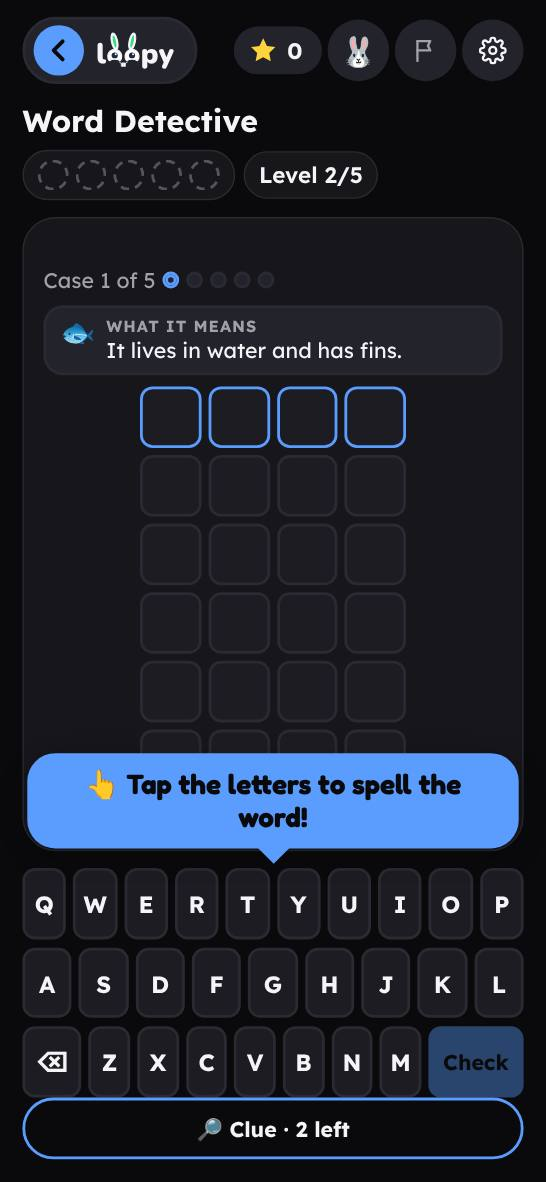
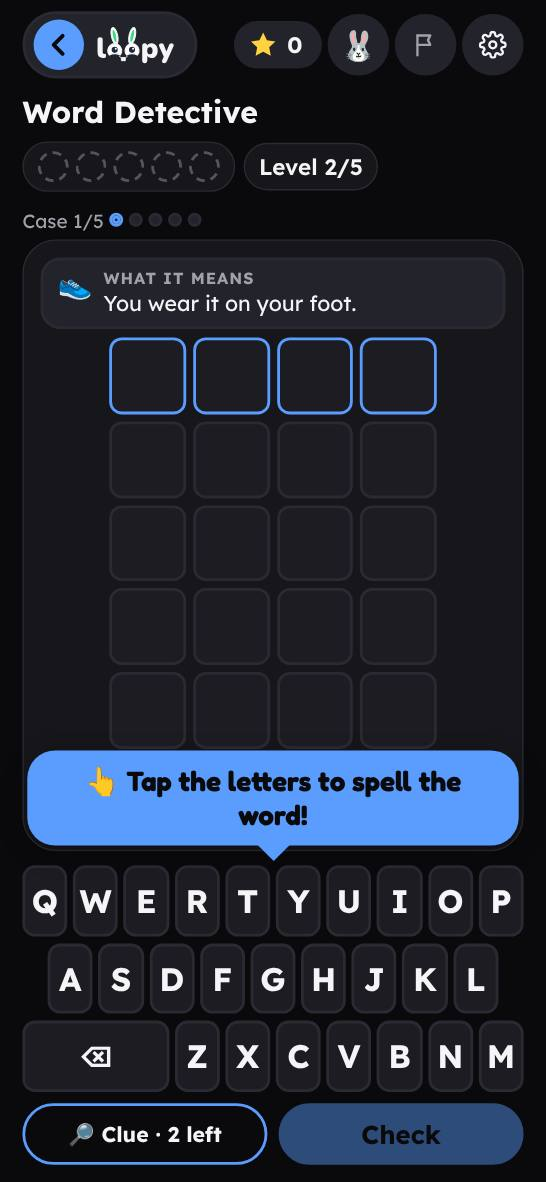
Big, equal keys on the letter keyboard in Word Detective and My Words
Every key is the same width: the keyboard splits its width by the longest row (10 keys in English, 11 in German), with 4px gaps. The letters grow with the keys, and ß is drawn a step bigger on its key and in the grid. Erase fills what the bottom row has left. In Word Detective the Check button sits beside Clue under the keyboard. On a phone or tablet on its side the case strip no longer overlaps the keyboard. Guide pictures, READMEs, DESIGN.md, What's new and RELEASES.md updated.

Closes #300

diff --git a/languages/word-detective/index.html b/languages/word-detective/index.html
@@ -2,7 +2,7 @@
 <html lang="en">
 <head>
 <meta charset="utf-8">
-<meta http-equiv="Content-Security-Policy" content="default-src 'self'; script-src 'self' 'sha256-ecpSx+02ibrNtK/c2zuixc14TUsTG+gCkBAhJxmG1kw='; style-src 'self' 'sha256-iKqZfY0yOsyVHa/qlTmRsjSUAon+EdDi9RLwucVWFNA=' 'sha256-tnJsa9R6C51kJMjmOPnAuWQXZQNnMHFisS5uil93cWg=' 'sha256-RT1053JU5UiKvjrCUFx1rlhdFLMmgtuFJ9T8jnMeawQ=' 'sha256-Rp8Iy7nAMEHVdMcdDohIRSjS8yNxAxCXzSrw2gh7/Vo='; img-src 'self' data:; font-src 'self'; connect-src 'self' https://loopy-sync.loopy-1e2.workers.dev; worker-src 'self'; object-src 'none'; base-uri 'none'; form-action 'none'; manifest-src 'self'; upgrade-insecure-requests">
+<meta http-equiv="Content-Security-Policy" content="default-src 'self'; script-src 'self' 'sha256-8C5mMo091dna48dkW3dfSlfeZkzU3jZSt8B+sFitkSs='; style-src 'self' 'sha256-iKqZfY0yOsyVHa/qlTmRsjSUAon+EdDi9RLwucVWFNA=' 'sha256-tnJsa9R6C51kJMjmOPnAuWQXZQNnMHFisS5uil93cWg=' 'sha256-RT1053JU5UiKvjrCUFx1rlhdFLMmgtuFJ9T8jnMeawQ=' 'sha256-groA4+QlUiGKy5SxnZ+kPCvtamF35StzhAuIgHHewfI='; img-src 'self' data:; font-src 'self'; connect-src 'self' https://loopy-sync.loopy-1e2.workers.dev; worker-src 'self'; object-src 'none'; base-uri 'none'; form-action 'none'; manifest-src 'self'; upgrade-insecure-requests">
 <meta name="referrer" content="strict-origin-when-cross-origin">
 <meta name="viewport" content="width=device-width, initial-scale=1, viewport-fit=cover">
 <style>:root{color-scheme:light;padding-top:var(--safe-top);padding-bottom:var(--safe-bottom)}body{margin:0}[hidden]{display:none!important}</style>
@@ -144,12 +144,15 @@ body { min-height: 100vh; min-height: 100dvh; padding-block: var(--page-pad-top)
 .case i.ok { background: var(--good); border-color: var(--good); }
 .case i.no { background: var(--bad); border-color: var(--bad); }
 .case i.now { border-color: var(--accent); box-shadow: 0 0 0 2px var(--accent) inset; }
-/* One Clue button, a full-width outline pill under the keyboard, where Next appears after the answer (the same place as in Word Trail). */
-.more {
+/* Under the keyboard: the Clue button (outline pill) and Check (filled pill) share one row, half the width each.
+   Next appears in the same place after the answer (as in Word Trail). */
+.acts { display: grid; grid-template-columns: 1fr 1fr; gap: 8px; width: 100%; }
+.more, .acts .go {
   width: 100%; font: inherit; font-weight: 700; font-size: 0.95rem; color: var(--ink); background: transparent;
   border: 2px solid var(--accent); border-radius: 999px; min-height: 44px; padding: 0 12px; cursor: pointer; white-space: nowrap;
 }
-.more:disabled { opacity: 0.45; cursor: default; }
+.acts .go { font-size: 1.15rem; background: var(--accent); color: var(--accent-ink); }
+.more:disabled, .acts .go:disabled { opacity: 0.45; cursor: default; }
 .strip .case { min-width: 0; }
 /* Phones: a short counter ("Case 1/5" and smaller dots) and the line share one row. */
 @media (max-width: 599px) { .case { font-size: 0.85rem; gap: 4px; } .case i { width: 10px; height: 10px; } .prompt { font-size: 0.85rem; } .strip { gap: 2px 6px; } }
@@ -211,11 +214,15 @@ body:has(#settings-panel:not([hidden])) .grid { height: 52dvh; }
 .stars { display: flex; align-items: center; justify-content: center; gap: 6px; font-weight: 700; font-size: 1.15rem; }
 .stars svg { width: 24px; height: 24px; fill: var(--mark); }
 
-.pad { display: flex; flex-direction: column; gap: 6px; width: 100%; }
-.pad .krow { display: flex; gap: 5px; justify-content: center; }
+/* Every key is the same size: the keyboard measures itself (container units) and splits its width by the longest row,
+   10 keys in English and 11 in German (--n from the keyboard's lang). Shorter rows are centred. The letter grows with the key. */
+.pad { display: flex; flex-direction: column; gap: 5px; width: 100%; container-type: inline-size; --n: 10; --kgap: 4px; }
+.pad[lang="de"] { --n: 11; }
+.pad .krow { display: flex; gap: var(--kgap); justify-content: center; }
 .pad button {
-  flex: 1 1 0; min-width: 0; min-height: clamp(36px, 6dvh, 54px); border-radius: 9px; border: 2px solid var(--line);
-  background: var(--key); color: var(--ink); font: inherit; font-weight: 700; font-size: 1.05rem; text-transform: uppercase; padding: 0; cursor: pointer;
+  --kw: calc((100cqw - (var(--n) - 1) * var(--kgap)) / var(--n));
+  flex: 0 0 var(--kw); min-width: 0; min-height: clamp(44px, 6dvh, 56px); border-radius: 9px; border: 2px solid var(--line);
+  background: var(--key); color: var(--ink); font: inherit; font-weight: 700; font-size: clamp(1.1rem, calc(var(--kw) * 0.72), 1.6rem); text-transform: uppercase; padding: 0; cursor: pointer;
   touch-action: manipulation; -webkit-tap-highlight-color: transparent;
 }
 .pad button:active:not(:disabled) { transform: scale(0.95); }
@@ -223,23 +230,22 @@ body:has(#settings-panel:not([hidden])) .grid { height: 52dvh; }
 .pad button.g { background: var(--good); border-color: var(--good); color: var(--on-accent, #fff); }
 .pad button.y { background: var(--wd-y); border-color: var(--wd-y); color: var(--wd-y-ink); }
 .pad button.x { background: var(--chip); border-color: var(--chip); color: var(--muted); }
-.pad .wide { flex: 1.5 1 0; font-size: 1.25rem; text-transform: none; }
-/* ß has no everyday capital, so it stays ß on its key and in the grid. */
+/* Erase takes whatever the bottom row has left (two keys wide in German, three in English), so the row ends flush with the rows above. */
+.pad .wide { flex: 1 1 var(--kw); font-size: 1.25rem; text-transform: none; }
+/* ß has no everyday capital, so it stays ß on its key and in the grid, drawn a step bigger to match the capitals. */
 .pad button.sz, .grid .cell.sz { text-transform: none; }
-.pad .go { flex: 2.5 1 0; font-size: 0.95rem; background: var(--accent); border-color: var(--accent); color: var(--accent-ink); }
-/* Small phones: the German last row has 9 letters (with ß), so Check gets a smaller word. */
-@media (max-width: 379px) { .pad .go { font-size: 0.85rem; } }
+.pad button.sz { font-size: clamp(1.25rem, calc(var(--kw) * 0.82), 1.8rem); }
+.grid .cell.sz { font-size: calc(var(--cell) * 0.64); }
 .next { font: inherit; font-size: 1.25rem; font-weight: 700; color: var(--accent-ink); background: var(--accent); border: 0; border-radius: 16px; min-height: clamp(52px, 7dvh, 72px); cursor: pointer; width: 100%; }
 
 /* Short phones: smaller cells and keys, a one-line clue. */
 @media (max-height: 700px) and (orientation: portrait) {
   .grid { --ggap: 4px; }
-  .more { min-height: 40px; }
+  .more, .acts .go { min-height: 40px; }
   .clue { font-size: 0.85rem; padding: 4px 8px; }
   .clue b { display: none; }
-  .pad button { min-height: 40px; font-size: 0.95rem; }
+  .pad button { min-height: 40px; }
   .pad { gap: 4px; }
-  .pad .krow { gap: 4px; }
   .word { font-size: 1.6rem; }
   .mean, .quote { font-size: 0.9rem; }
   .problem-card { gap: 6px; padding: 10px 12px; }
@@ -248,12 +254,14 @@ body:has(#settings-panel:not([hidden])) .grid { height: 52dvh; }
 @media (orientation: landscape) and (min-width: 640px) {
   .grid { --ggap: 4px; }
   .pad button { min-height: clamp(34px, 9dvh, 54px); }
+  /* The strip sits in the side column here, so it keeps the column's own gap (its negative margin is for the portrait page). */
+  .side .strip { margin-bottom: 0; }
 }
-@media (min-width: 700px) { .more { min-height: 54px; font-size: 1.1rem; } }
+@media (min-width: 700px) { .more { min-height: 54px; font-size: 1.1rem; } .acts .go { min-height: 54px; font-size: 1.3rem; } }
 /* A phone on its side: the side column holds the case strip, the clues and the keys, so everything there is a step tighter. */
 @media (orientation: landscape) and (min-width: 640px) and (max-height: 500px) {
   .side { gap: 6px; }
-  .more { min-height: 44px; }
+  .more, .acts .go { min-height: 44px; }
   .clue { font-size: 0.85rem; padding: 4px 8px; }
   .clue b { display: none; }
 }
@@ -262,7 +270,7 @@ body:has(#settings-panel:not([hidden])) .grid { height: 52dvh; }
 @media (orientation: landscape) and (min-width: 1000px) { .grid { --ggap: 8px; } }
 @media (orientation: landscape) and (min-width: 1600px) { .grid { --ggap: 10px; } }
 /* Laptops and monitors: the game's own picture and keys grow with the screen (loopy.css --card-zoom, --side-zoom; 1 elsewhere). */
-.pad { zoom: var(--side-zoom); }
+.pad, .acts { zoom: var(--side-zoom); }
 </style>
 <link rel="stylesheet" href="../../loopy.css">
 <script src="../../loopy.js"></script>
@@ -326,7 +334,10 @@ body:has(#settings-panel:not([hidden])) .grid { height: 52dvh; }
     </div>
     <div class="side">
       <div class="pad" id="letters"></div>
-      <button type="button" class="more" id="more"></button>
+      <div class="acts" id="acts">
+        <button type="button" class="more" id="more"></button>
+        <button type="button" class="go" id="k-go"></button>
+      </div>
       <button type="button" class="next" id="next" hidden></button>
     </div>
   </main>
@@ -402,7 +413,7 @@ function marks(guess, answer) {
 
 (function () {
   const $ = (id) => document.getElementById(id);
-  const card = $("card"), caseEl = $("case"), moreBtn = $("more"), cluesEl = $("clues"), promptEl = $("prompt"), gridEl = $("grid"),
+  const card = $("card"), caseEl = $("case"), moreBtn = $("more"), actsEl = $("acts"), goBtn = $("k-go"), cluesEl = $("clues"), promptEl = $("prompt"), gridEl = $("grid"),
     resultEl = $("result"), feedbackEl = $("feedback"), padEl = $("letters"), nextBtn = $("next"), sideEl = document.querySelector(".side"),
     stripEl = $("strip"), playEl = document.querySelector(".play");
   const wordsBtns = [...document.querySelectorAll("#words-seg button")];
@@ -470,7 +481,7 @@ function marks(guess, answer) {
     const left = CLUES - clues;
     moreBtn.textContent = t("wdMore") + " · " + (left ? t("wdLeft", { n: left }) : t("wdNoClues"));
     moreBtn.disabled = !left || answered;
-    moreBtn.hidden = answered;
+    actsEl.hidden = answered;
     promptEl.textContent = clues ? t("wdGuessClue") : t("wdGuess", { n: current.letters.length });
     promptEl.hidden = answered || clues > 0;
   }
@@ -513,6 +524,7 @@ function marks(guess, answer) {
     const best = {};
     rows.forEach(r => r.g.forEach((c, i) => { const m = r.m[i]; if (m === "g" || (m === "y" && best[c] !== "g") || !best[c]) best[c] = m; }));
     padEl.textContent = "";
+    padEl.lang = wordsLang;
     KEYS[wordsLang].forEach((line, li) => {
       const row = document.createElement("div"); row.className = "krow";
       if (li === KEYS[wordsLang].length - 1) row.appendChild(key("k-erase", "wide", "⌫", t("wdEraseAria"), erase));
@@ -522,9 +534,10 @@ function marks(guess, answer) {
         b.disabled = answered || typed.length >= current.letters.length;
         row.appendChild(b);
       });
-      if (li === KEYS[wordsLang].length - 1) { const go = key("k-go", "wide go", t("wdCheck"), "", check); go.disabled = answered || typed.length < current.letters.length; row.appendChild(go); }
       padEl.appendChild(row);
     });
+    goBtn.textContent = t("wdCheck");
+    goBtn.disabled = answered || typed.length < current.letters.length;
   }
   function key(id, cls, text, aria, fn) {
     const b = document.createElement("button");
@@ -638,7 +651,7 @@ function marks(guess, answer) {
     const solved = file.filter(c => c.ok).length, quick = file.every(c => c.ok && c.tries <= 3);
     const rank = quick ? "wdSuper" : solved === CASES ? "wdDetective" : "wdRookie";
     resultEl.textContent = "";
-    gridEl.hidden = true; cluesEl.hidden = true; promptEl.hidden = true; moreBtn.disabled = true; moreBtn.hidden = true;
+    gridEl.hidden = true; cluesEl.hidden = true; promptEl.hidden = true; moreBtn.disabled = true; actsEl.hidden = true;
     card.classList.remove("good", "bad");
     resultEl.appendChild(el("h2", "big", t("wdFileDone")));
     const list = el("div", "file");
@@ -667,6 +680,7 @@ function marks(guess, answer) {
 
   nextBtn.addEventListener("click", next);
   wide.addEventListener("change", place);
+  goBtn.addEventListener("click", check);
   moreBtn.addEventListener("click", () => { if (clues < CLUES && !answered) { clues++; drawClues(); Loopy.speech.read(); } });
   wordsBtns.forEach(b => b.addEventListener("click", () => { wordsLang = b.dataset.words; store.set("wd.words", wordsLang); store.set("wd.wordsUi", uiLang); recent = []; file = []; summary = false; newCase(); }));
   levelBtns.forEach(b => b.addEventListener("click", () => { level = +b.dataset.level; store.set("wd.level.a" + age, level); recent = []; newCase(); }));

diff --git a/sw.js b/sw.js
@@ -1,5 +1,5 @@
 /* loopy: built from src/sw.js by tools/build.py. Do not edit this file, edit the source. */
-var VERSION="5e12aa7f8528ee54",FILES={"apple-touch-icon.png":"826eeeca90","fonts/atkinson-latin.woff2":"71c3e56f88","fonts/fredoka-latin-ext.woff2":"18a1723c87","fonts/fredoka-latin.woff2":"3facd28352","fonts/lexend-latin-ext.woff2":"b5d815d420","fonts/lexend-latin.woff2":"35a62e43ae","geography/flags-capitals/data.js":"c24974cb8d","geography/flags-capitals/":"d75c572ce5","geography/where-is-it/data.js":"c8e0bf4f86","geography/where-is-it/":"dc92bee3a7","help/":"12fe6a6908","icon-192.png":"571274d70c","icon-512.png":"dfd4ed3adf","icon-maskable-512.png":"981dcb84db","icon.svg":"3d1a9ed7fd","./":"9f6e7f2174","languages/my-words/":"6bccba4ba1","languages/read-answer/data.js":"54993a2b66","languages/read-answer/":"5f53a2fbd2","languages/sentence-builder/":"a7d184337a","languages/sentence-builder/words.js":"15d02d630a","languages/sound-spell/":"e6a7b77794","languages/sound-spell/words.js":"100ac92ec5","languages/spell-it/":"7907b88b66","languages/spell-it/words.js":"72e87eaa4f","languages/spelling-quiz/":"34480a6c1b","languages/spelling-quiz/words.js":"9c90832137","languages/word-detective/":"6f07786784","languages/word-detective/words.js":"62c5968b01","languages/word-forms/":"d83d7b5252","languages/word-forms/words.js":"4fcfd229c7","languages/word-match/":"b9dc75e5d2","languages/word-trail/":"e4b6674cfc","languages/words.js":"ad5f903a46","logo-white.svg":"f6a28d2294","logo.svg":"33f3453587","loopy-backup.js":"f24fd829d5","loopy-install.js":"3c3d79f3e7","loopy-levels.js":"4e0e76430c","loopy-report.js":"c374c981fa","loopy-sheet.js":"2979ac6382","loopy-sync.js":"0866d61ab8","loopy.css":"7e9939a745","loopy.js":"4d3dde893f","manifest.webmanifest":"32d1e2daa8","math/bigger-or-smaller/":"08faae00ac","math/box-multiply/":"464fd701bc","math/calendar-dates/":"9c7113e608","math/coins-change/":"a09555cc30","math/enough-money/":"e25805c003","math/equation-balance/":"29bd7c5cb8","math/graphs-data/":"c4ee5d53f4","math/make-10/":"65351be9c2","math/measure-it/":"78394d756c","math/number-patterns/":"7534bfa6a4","math/percent-ratio/":"c2476ea156","math/pizza-fractions/":"b37515b175","math/plus-minus/":"15bbb8348c","math/plus-minus-100/":"9df776dbe5","math/shapes-angles/":"18dfdacb9f","math/step-by-step/":"037aea58f6","math/tens-ones/":"bd3615a6c6","math/times-grid/":"0da62f8e5e","math/times-share/":"7c15151094","math/times-sprint/":"f8360fbe43","math/what-time-is-it/":"3438479e3a","math/which-way/":"53974eb448","mix/class-test/":"7db1f631bf","mix/daily-mix/":"a6215b3737","print.css":"619925ee48","privacy/":"25d6245161","progress/":"488a6bc380","science/quick-facts/data.js":"8196c98b79","science/quick-facts/":"a7aafd793b","science/sort-it/data.js":"9abc4f3e8a","science/sort-it/":"418f3d37db"};
+var VERSION="fe425150111bac6f",FILES={"apple-touch-icon.png":"826eeeca90","fonts/atkinson-latin.woff2":"71c3e56f88","fonts/fredoka-latin-ext.woff2":"18a1723c87","fonts/fredoka-latin.woff2":"3facd28352","fonts/lexend-latin-ext.woff2":"b5d815d420","fonts/lexend-latin.woff2":"35a62e43ae","geography/flags-capitals/data.js":"c24974cb8d","geography/flags-capitals/":"d75c572ce5","geography/where-is-it/data.js":"c8e0bf4f86","geography/where-is-it/":"dc92bee3a7","help/":"12fe6a6908","icon-192.png":"571274d70c","icon-512.png":"dfd4ed3adf","icon-maskable-512.png":"981dcb84db","icon.svg":"3d1a9ed7fd","./":"9f6e7f2174","languages/my-words/":"869377a27a","languages/read-answer/data.js":"54993a2b66","languages/read-answer/":"5f53a2fbd2","languages/sentence-builder/":"a7d184337a","languages/sentence-builder/words.js":"15d02d630a","languages/sound-spell/":"e6a7b77794","languages/sound-spell/words.js":"100ac92ec5","languages/spell-it/":"7907b88b66","languages/spell-it/words.js":"72e87eaa4f","languages/spelling-quiz/":"34480a6c1b","languages/spelling-quiz/words.js":"9c90832137","languages/word-detective/":"e2404b8700","languages/word-detective/words.js":"62c5968b01","languages/word-forms/":"d83d7b5252","languages/word-forms/words.js":"4fcfd229c7","languages/word-match/":"b9dc75e5d2","languages/word-trail/":"e4b6674cfc","languages/words.js":"ad5f903a46","logo-white.svg":"f6a28d2294","logo.svg":"33f3453587","loopy-backup.js":"f24fd829d5","loopy-install.js":"3c3d79f3e7","loopy-levels.js":"4e0e76430c","loopy-report.js":"c374c981fa","loopy-sheet.js":"2979ac6382","loopy-sync.js":"0866d61ab8","loopy.css":"7e9939a745","loopy.js":"4d3dde893f","manifest.webmanifest":"32d1e2daa8","math/bigger-or-smaller/":"08faae00ac","math/box-multiply/":"464fd701bc","math/calendar-dates/":"9c7113e608","math/coins-change/":"a09555cc30","math/enough-money/":"e25805c003","math/equation-balance/":"29bd7c5cb8","math/graphs-data/":"c4ee5d53f4","math/make-10/":"65351be9c2","math/measure-it/":"78394d756c","math/number-patterns/":"7534bfa6a4","math/percent-ratio/":"c2476ea156","math/pizza-fractions/":"b37515b175","math/plus-minus/":"15bbb8348c","math/plus-minus-100/":"9df776dbe5","math/shapes-angles/":"18dfdacb9f","math/step-by-step/":"037aea58f6","math/tens-ones/":"bd3615a6c6","math/times-grid/":"0da62f8e5e","math/times-share/":"7c15151094","math/times-sprint/":"f8360fbe43","math/what-time-is-it/":"3438479e3a","math/which-way/":"53974eb448","mix/class-test/":"7db1f631bf","mix/daily-mix/":"a6215b3737","print.css":"619925ee48","privacy/":"25d6245161","progress/":"488a6bc380","science/quick-facts/data.js":"8196c98b79","science/quick-facts/":"a7aafd793b","science/sort-it/data.js":"9abc4f3e8a","science/sort-it/":"418f3d37db"};
 var CACHE="loopy-"+VERSION;var LIST=new URL("loopy-files",self.location).href;var SAVED={};Object.keys(FILES).forEach(function(f){SAVED[new URL(f,self.location).href]=FILES[f];});function key(url){var u=new URL(url);u.search="";u.hash="";u.pathname=u.pathname.replace(/\/index\.html$/,"/").replace(/\/([^\/.]+)$/,"/$1/");return u.href;}
 function oldCopy(){return caches.keys().then(function(names){return Promise.all(names.filter(function(n){return n.indexOf("loopy-")===0&&n!==CACHE;}).map(function(n){return caches.open(n).then(function(cache){return cache.match(LIST).then(function(r){return r?r.json():null;}).then(function(list){if(!list||typeof list!=="object")return null;var same=Object.keys(SAVED).filter(function(url){return list[url]===SAVED[url];}).length;return{cache:cache,list:list,same:same};});}).catch(function(){return null;});}));}).then(function(copies){return copies.reduce(function(best,c){return c&&(!best||c.same>best.same)?c:best;},null);}).catch(function(){return null;});}
 function matches(res,want){if(!res||!self.crypto||!crypto.subtle)return Promise.resolve(!!res);return res.clone().arrayBuffer().then(function(buf){return crypto.subtle.digest("SHA-256",buf);}).then(function(d){return Array.prototype.map.call(new Uint8Array(d),function(b){return(b<16?"0":"")+b.toString(16);}).join("").slice(0,10)===want;},function(){return true;});}

diff --git a/languages/my-words/index.html b/languages/my-words/index.html
@@ -2,7 +2,7 @@
 <html lang="en">
 <head>
 <meta charset="utf-8">
-<meta http-equiv="Content-Security-Policy" content="default-src 'self'; script-src 'self' 'sha256-ioWp0gCU0bj9U9rSw9WEMqyRq5jm508kvH+1Pi0uI2w='; style-src 'self' 'sha256-iKqZfY0yOsyVHa/qlTmRsjSUAon+EdDi9RLwucVWFNA=' 'sha256-uA6fxc0gl3P5//NKJxplasYAcMyveYOYRtV08rf1NdM=' 'sha256-RT1053JU5UiKvjrCUFx1rlhdFLMmgtuFJ9T8jnMeawQ=' 'sha256-RTcTanGuQck/Cl+4zNduM3E7QA1BP42nfnGTIkaxu2Q='; img-src 'self' data:; font-src 'self'; connect-src 'self' https://loopy-sync.loopy-1e2.workers.dev; worker-src 'self'; object-src 'none'; base-uri 'none'; form-action 'none'; manifest-src 'self'; upgrade-insecure-requests">
+<meta http-equiv="Content-Security-Policy" content="default-src 'self'; script-src 'self' 'sha256-LG1vla+GtqtiF7IkCcoDXeGKhI49rhu703/H5KlUpDc='; style-src 'self' 'sha256-iKqZfY0yOsyVHa/qlTmRsjSUAon+EdDi9RLwucVWFNA=' 'sha256-uA6fxc0gl3P5//NKJxplasYAcMyveYOYRtV08rf1NdM=' 'sha256-RT1053JU5UiKvjrCUFx1rlhdFLMmgtuFJ9T8jnMeawQ=' 'sha256-zOI/Dfu6iLqXhRR2R6oi77XJwf6cvvvruJS0xlRLSj0='; img-src 'self' data:; font-src 'self'; connect-src 'self' https://loopy-sync.loopy-1e2.workers.dev; worker-src 'self'; object-src 'none'; base-uri 'none'; form-action 'none'; manifest-src 'self'; upgrade-insecure-requests">
 <meta name="referrer" content="strict-origin-when-cross-origin">
 <meta name="viewport" content="width=device-width, initial-scale=1, viewport-fit=cover">
 <style>:root{color-scheme:light;padding-top:var(--safe-top);padding-bottom:var(--safe-bottom)}body{margin:0}[hidden]{display:none!important}</style>
@@ -221,10 +221,13 @@ body { min-height: 100vh; min-height: 100dvh; padding-block: var(--page-pad-top)
   background: var(--key); border: 2px solid var(--line); border-radius: 18px; min-height: clamp(50px, 8dvh, 92px); cursor: pointer;
   transition: transform .08s ease, border-color .15s ease; touch-action: manipulation; -webkit-tap-highlight-color: transparent;
 }
-.letters.kbd { display: flex; flex-direction: column; gap: 6px; }
-.letters.kbd .krow { display: flex; gap: 5px; justify-content: center; }
-.letters.kbd button { flex: 1 1 0; min-width: 0; min-height: clamp(44px, 6.5dvh, 60px); border-radius: 9px; padding: 0; font-size: clamp(1.05rem, 2.6dvh, 1.5rem); }
-.letters.kbd button.space { flex: 2.5 1 0; font-size: 0.9rem; font-weight: 600; color: var(--muted); }
+/* Every key is the same size: the keyboard measures itself (container units) and splits its width by the longest row,
+   10 keys in English and 11 in German (--n from the keyboard's lang). Shorter rows are centred; the letter grows with the key. */
+.letters.kbd { display: flex; flex-direction: column; gap: 5px; container-type: inline-size; --n: 10; --kgap: 4px; }
+.letters.kbd[lang="de"] { --n: 11; }
+.letters.kbd .krow { display: flex; flex-wrap: wrap; gap: var(--kgap); justify-content: center; }
+.letters.kbd button { --kw: calc((100cqw - (var(--n) - 1) * var(--kgap)) / var(--n)); flex: 0 0 var(--kw); min-width: 0; min-height: clamp(44px, 6.5dvh, 60px); border-radius: 9px; padding: 0; font-size: clamp(1.1rem, calc(var(--kw) * 0.72), 1.6rem); }
+.letters.kbd button.space { flex: 0 0 calc(var(--kw) * 3 + var(--kgap) * 2); font-size: 0.9rem; font-weight: 600; color: var(--muted); }
 .letters button:hover:not(:disabled), .actions button:hover:not(:disabled) { border-color: var(--accent); }
 .letters button:active:not(:disabled), .actions button:active:not(:disabled) { transform: scale(0.96); }
 .letters button:disabled, .actions button:disabled { opacity: 0.4; cursor: default; }
@@ -261,19 +264,17 @@ body { min-height: 100vh; min-height: 100dvh; padding-block: var(--page-pad-top)
   .side { height: 100%; justify-content: center; }
   .letters button, .actions button { min-height: clamp(44px, 15dvh, 120px); }
   .letters.kbd button { min-height: clamp(36px, 9dvh, 64px); }
-  .letters.kbd .krow { gap: 4px; }
 }
 @media (orientation: landscape) and (min-width: 1000px) {
-  .letters.kbd button { min-height: clamp(44px, 10dvh, 84px); font-size: 1.5rem; }
+  .letters.kbd button { min-height: clamp(44px, 10dvh, 84px); }
   .say { font-size: 1.4rem; }
 }
 /* Short phones: smaller keys, so the boxes and the explanation have room. */
 @media (max-height: 700px) and (orientation: portrait) {
   .speak { min-height: 44px; font-size: 0.95rem; padding: 0 16px; }
   .speak svg { width: 22px; height: 22px; }
-  .letters.kbd button { min-height: 40px; font-size: 1rem; }
+  .letters.kbd button { min-height: 40px; }
   .letters.kbd { gap: 4px; }
-  .letters.kbd .krow { gap: 4px; }
   .letters button, .actions button { min-height: clamp(44px, 6.5dvh, 60px); }
   .say { font-size: 0.95rem; }
   .problem-card { gap: 6px; }
@@ -733,6 +734,7 @@ function makeProblem(word, say, lang, trans) {
   function drawKeys() {
     lettersEl.textContent = "";
     lettersEl.classList.toggle("kbd", !tiles());
+    lettersEl.lang = wordsLang;
     lettersEl.classList.toggle("five", tiles() && current.tiles.length > 8);
     if (tiles()) { current.tiles.forEach(c => lettersEl.appendChild(key(c))); return; }
     const on = KEYS[wordsLang].join("");

diff --git a/DESIGN.md b/DESIGN.md
@@ -276,9 +276,9 @@ Coins and Change draws money in SVG. Coins and notes keep fixed metal and paper 
 
 Spell It shows one box per letter under the picture: a bold letter on a `line` underline, with the next box to fill underlined in `accent`. After a check, right letters turn green and wrong ones red and crossed out. When the answer is wrong, a second row of green boxes spells the word under the child's try, one letter at a time (all at once with reduced motion). German words show a capital first letter. The letter pad uses the number pad keys: 8 keys in 4 columns for short words, 10 in 5 columns for longer ones, then an erase key and a wide "check" key that turns into "Next".
 
-Word Detective and Word Trail have a full letter keyboard. In Word Detective the bottom row starts with a ⌫ erase key, one and a half letters wide. It ends with a Check key in `accent`, two and a half letters wide: the biggest key on the screen. The German keyboard is QWERTZ with ä, ö, ü and ß. The ß keeps its small shape on its key and in the grid, because it has no everyday capital. The German bottom row has nine letters. So Check gets a smaller word on phones under 380px wide, and "Prüfen" still fits. Keys are at least 44px tall, 40px on phones under 700px tall. Both games have one **Clue** button: a full-width outline pill under the keyboard, where the Next button appears later. It has a 2px `accent` line, no fill, and is at least 44px tall (40px on short phones, 54px on tablets). It says "🔎 Clue · 2 left" and greys out when no clue is left. In Word Detective the case counter and the "Guess the 5-letter word" line sit in one row above the card, 4px above it. The counter is "Case 1 of 5" with five dots, and both are `muted`. The line is short so that both fit one row on a phone (the six rows show the six tries). The keyboard keeps an 8px gap (6px on short phones) from the Clue button. The counter is at the left and the line at the right, and they wrap on a phone. On a phone on its side the row sits above the keyboard. The card holds only the clues and the letter grid. The grid fills the card. The tile is the biggest square that fits the card's width for the word's letters and its height for six tries. It is measured in container units, up to 140px. The gap is 4px on phones, 8px on tablets and 10px on a monitor. "Fill every box first" floats as a `chip` pill over the card's bottom edge, so the grid does not jump. After the answer only the last try stays, at a steady size. The result (stamp, word, meaning, sentence) grows a little with the screen.
+Word Detective and Word Trail have a full letter keyboard. In Word Detective every key is the same size. The keyboard measures itself in container units and splits its width by the longest row: 10 keys in English, 11 in German (QWERTZ with ä, ö, ü and ß), with 4px gaps. Shorter rows are centred. The letter grows with the key: 0.72 of the key width, 1.1rem to 1.6rem. The ß keeps its small shape on its key and in the grid, because it has no everyday capital. It is drawn a step bigger (0.82 of the key width on the key, 0.64 of the tile in the grid), so it reads as tall as the capitals. The bottom row starts with a ⌫ erase key. It takes whatever the row has left (two keys wide in German, three in English), so the row ends flush with the rows above. Keys are 44px to 56px tall (6dvh), 40px on phones under 700px tall. Under the keyboard sit **Clue** and **Check** in one row, half the width each, 8px apart. Clue is an outline pill with a 2px `accent` line and no fill. Check is the same pill filled `accent`, with `accent-ink` text one step bigger. Both are at least 44px tall (40px on short phones, 54px on tablets). Next appears in the same place later. Word Trail keeps its full-width Clue pill. The Clue button says "🔎 Clue · 2 left" and greys out when no clue is left. In Word Detective the case counter and the "Guess the 5-letter word" line sit in one row above the card, 4px above it. The counter is "Case 1 of 5" with five dots, and both are `muted`. The line is short so that both fit one row on a phone (the six rows show the six tries). The keyboard keeps an 8px gap (6px on short phones) from the Clue and Check row. The counter is at the left and the line at the right, and they wrap on a phone. On a phone on its side the row sits above the keyboard. The card holds only the clues and the letter grid. The grid fills the card. The tile is the biggest square that fits the card's width for the word's letters and its height for six tries. It is measured in container units, up to 140px. The gap is 4px on phones, 8px on tablets and 10px on a monitor. "Fill every box first" floats as a `chip` pill over the card's bottom edge, so the grid does not jump. After the answer only the last try stays, at a steady size. The result (stamp, word, meaning, sentence) grows a little with the screen.
 
-My Words uses Spell It's boxes and reveal row, without a picture. On the card: the small `muted` source line ("Your list · 12 words" or "loopy's words for age 8"), a big **Hear the word** pill (`key` background, 2px `line` border, speaker icon, `accent` while it speaks), the word's sentence in `ink` with the word replaced by a 3px `accent` gap (after the answer the word shows in it in bold `accent`), the word's meaning from the list under it in `muted` text one step smaller (only when the list has one and **Meaning under the word** in Settings is on), then the boxes. The boxes size themselves to the card's width for the word's letters (container units), up to a cap by height, so a short word is big and a long one still fits on one line. At level 1 the first letter sits faintly (`muted`, 55%) in its box until it is typed. At level 4 there are no boxes: each typed letter gets one, plus one `accent` box for the next. Levels 1 and 2 use the letter pad (8 or 10 keys, radius 18px); levels 3 and 4 use the full keyboard of Word Detective (QWERTY or QWERTZ with ä ö ü ß, radius 9px, 44px tall, 40px on short phones), with any letter the word needs that is not on it, or a wide "Space" key, at the end of the last row. Under both sits the pad's own row: a muted ⌫ key and a wide `accent` Check that turns into Next. In Settings the word list is Spelling Quiz's text box, with an outline **Import a CSV file** button between **Save list** and **Clear list**, then a two-way segment **Meaning under the word** (On / Off) like **Words in**, with one muted line under it.
+My Words uses Spell It's boxes and reveal row, without a picture. On the card: the small `muted` source line ("Your list · 12 words" or "loopy's words for age 8"), a big **Hear the word** pill (`key` background, 2px `line` border, speaker icon, `accent` while it speaks), the word's sentence in `ink` with the word replaced by a 3px `accent` gap (after the answer the word shows in it in bold `accent`), the word's meaning from the list under it in `muted` text one step smaller (only when the list has one and **Meaning under the word** in Settings is on), then the boxes. The boxes size themselves to the card's width for the word's letters (container units), up to a cap by height, so a short word is big and a long one still fits on one line. At level 1 the first letter sits faintly (`muted`, 55%) in its box until it is typed. At level 4 there are no boxes: each typed letter gets one, plus one `accent` box for the next. Levels 1 and 2 use the letter pad (8 or 10 keys, radius 18px); levels 3 and 4 use the full keyboard of Word Detective (QWERTY or QWERTZ with ä ö ü ß, every key the same width, radius 9px, 44px tall, 40px on short phones). Any letter the word needs that is not on it, or a three-key-wide "Space" key, joins the end of the last row. A row that gets too long wraps. Under both sits the pad's own row: a muted ⌫ key and a wide `accent` Check that turns into Next. In Settings the word list is Spelling Quiz's text box, with an outline **Import a CSV file** button between **Save list** and **Clear list**, then a two-way segment **Meaning under the word** (On / Off) like **Words in**, with one muted line under it.
 
 Sentence Builder uses the same boxes for whole words: one underlined box per word, as wide as the word, wrapping to more lines for long sentences. The words sit below as tiles in a wrapping row (the same key style, each as wide as its word, the end mark as a small tile), and a tapped tile greys out until Erase takes it back. After a wrong answer the right sentence appears under the child's row in muted text, word by word, with the first wrong spot in `accent`.
 

diff --git a/RELEASES.md b/RELEASES.md
@@ -4,6 +4,7 @@ The big changes, newest first. Small fixes are not listed.
 
 | Date | What's new | Where | PR |
 | --- | --- | --- | --- |
+| 2026-11-19 | Big, equal keys on the letter keyboard. In Word Detective and My Words every key is now the same size, in every row, and the letters are bigger. Before, the German bottom row was squeezed: Erase, nine letters and Prüfen shared the space of the eleven keys above, and the ß looked small. Now the ß is as tall as the other letters. Erase fills the end of the bottom row. In Word Detective the Check button sits under the keyboard, next to Clue. | [Word Detective](https://amalrajvinoth.github.io/loopy/languages/word-detective/), [My Words](https://amalrajvinoth.github.io/loopy/languages/my-words/) | #301 |
 | 2026-11-18 | The home screen app no longer cuts off the bottom. On a phone where loopy was added to the home screen, the last row of keys could sit under the phone's bottom bar. Now every game keeps its keys above that bar, and the home, grown-ups, Help and privacy pages leave room under their last line. | Every page | #295 |
 | 2026-11-18 | German keyboards with ß, and words in loopy's language. In Word Detective and My Words the German keyboard now has a ß key next to m. So it has every German letter: ä, ö, ü and ß. The German letter pads in Spell It and My Words mix ä, ö and ü in with the other letters. And in all word games the words follow loopy's language, like Word Detective. That is Spell It, Spelling Quiz, My Words, Sound Spell, Word Match, Word Trail and Sentence Builder. Before, a pick under "Words in" made once stuck for good. So with loopy in German a game could stay in English. A pick now holds until loopy's language changes. | [Word Detective](https://amalrajvinoth.github.io/loopy/languages/word-detective/), [My Words](https://amalrajvinoth.github.io/loopy/languages/my-words/), [Spell It](https://amalrajvinoth.github.io/loopy/languages/spell-it/), the other word games | #296 |
 | 2026-11-18 | Word Detective speaks the language loopy speaks. With loopy in German, the clues, the words and the keyboard could stay in English. A pick under "Words in" made earlier stuck for good. Now the words follow loopy's language. A pick under "Words in" is for practising the other language and holds until loopy's language changes. | [Word Detective](https://amalrajvinoth.github.io/loopy/languages/word-detective/) | #292 |

diff --git a/languages/word-detective/README.md b/languages/word-detective/README.md
@@ -30,7 +30,7 @@ The level shows next to the score, like "Level 2 of 5". After 10 right in a row,
 
 240 English and 240 German words, 48 at each level. Each word has a picture, a short meaning and a silly sentence. The German list is its own list with its own jokes, not a translation.
 
-German words keep their capital letter in the clues and on the result card. In the grid all letters are capitals, so the child does not need to think about it. The German keyboard has ä, ö and ü.
+German words keep their capital letter in the clues and on the result card. In the grid all letters are capitals, so the child does not need to think about it. The German keyboard has ä, ö, ü and ß. The ß stays small, because it has no everyday capital, and is drawn a step bigger so it matches the other letters.
 
 ## Last 5
 
@@ -46,7 +46,8 @@ Open them with the gear button.
 - **Read aloud.** A speaker button on the card reads the open clues out loud, and the word with its sentence once the case is closed. It is on by itself for ages 7 and under.
 - Age, colors, sound effects and the display language (EN/DE) are shared with the other games.
 - **Print worksheet.** See below.
-- The keyboard works too: type the letters, Backspace erases, Enter checks and goes on. On the screen, the ⌫ key erases and the wide blue key checks.
+- The keyboard works too: type the letters, Backspace erases, Enter checks and goes on. On the screen, the ⌫ key at the start of the bottom row erases. **Check** is the blue button under the keyboard, next to Clue.
+- Every key is the same size, in every row. The keyboard splits its width by its longest row (10 keys in English, 11 in German), and the letters grow with the keys. The ⌫ key takes what the bottom row has left, so the row ends where the rows above end.
 - The case counter ("Case 1 of 5" with five dots) and the line "Guess the 5-letter word" sit above the card, on one line. The card holds only the grid, and the tiles grow to fill it: as big as the card's width and height allow, with small gaps. On a phone on its side, the counter sits above the keyboard.
 - Clues, grid and keyboard share one screen. When open clues need the room, the grid's tiles get smaller, so nothing is cut off.
 

diff --git a/guide-src/src/content/docs/de/help/whats-new.md b/guide-src/src/content/docs/de/help/whats-new.md
@@ -8,6 +8,10 @@ loopy bekommt immer wieder neue Spiele. Das ist zuletzt dazugekommen!
 
 Die großen Änderungen, die neuesten zuerst. Kleine Korrekturen stehen nicht dabei. Die [ganze Liste steht auf GitHub](https://github.com/amalrajvinoth/loopy/blob/main/RELEASES.md) (auf Englisch).
 
+## 19. November 2026
+
+- **Große, gleich große Tasten auf der Buchstaben-Tastatur.** Im Wortdetektiv und in Meine Wörter sind jetzt alle Tasten gleich groß, in jeder Reihe, und die Buchstaben sind größer. Vorher war die untere deutsche Reihe gequetscht, und das ß sah klein aus. Jetzt ist das ß so hoch wie die anderen Buchstaben. Die Taste ⌫ füllt das Ende der unteren Reihe. Im Wortdetektiv steht **Prüfen** unter der Tastatur neben Hinweis. [So wird gespielt](/loopy/guide/de/games/languages/word-detective/).
+
 ## 18. November 2026
 
 - **Deutsche Tastaturen mit ß, und Wörter in der Sprache von loopy.** Im Wortdetektiv und in Meine Wörter hat die deutsche Tastatur jetzt eine ß-Taste, also alle deutschen Buchstaben: ä, ö, ü und ß. Die deutschen Buchstabenfelder in Wörter schreiben und Meine Wörter mischen ä, ö und ü unter die anderen Buchstaben. In jedem Wortspiel folgen die Wörter jetzt der Sprache von loopy. Eine Wahl unter **Wörter auf** ist zum Üben der anderen Sprache und gilt, bis sich die Sprache von loopy ändert. [So wird gespielt](/loopy/guide/de/games/languages/spell-it/).

diff --git a/guide-src/src/content/docs/help/whats-new.md b/guide-src/src/content/docs/help/whats-new.md
@@ -8,6 +8,10 @@ loopy keeps getting new games. Here is what came lately!
 
 The big changes, newest first. Small fixes are not listed. See [the full list on GitHub](https://github.com/amalrajvinoth/loopy/blob/main/RELEASES.md).
 
+## 19 November 2026
+
+- **Big, equal keys on the letter keyboard.** In Word Detective and My Words every key is now the same size, in every row, and the letters are bigger. Before, the German bottom row was squeezed and the ß looked small. Now the ß is as tall as the other letters. The ⌫ key fills the end of the bottom row. In Word Detective **Check** sits under the keyboard next to Clue. [How to play](/loopy/guide/games/languages/word-detective/).
+
 ## 18 November 2026
 
 - **German keyboards with ß, and words in loopy's language.** In Word Detective and My Words the German keyboard has a ß key now, so it has every German letter: ä, ö, ü and ß. The German letter pads in Spell It and My Words mix ä, ö and ü in with the other letters. In every word game the words now follow loopy's language. A pick under **Words in** is for practising the other language and holds until loopy's language changes. [How to play](/loopy/guide/games/languages/spell-it/).

diff --git a/languages/my-words/README.md b/languages/my-words/README.md
@@ -55,7 +55,7 @@ The level sets how much help the child gets. It does not change the words.
 
 The level shows next to the score, like "Level 3 of 4". After 10 right in a row, or 18 of the last 20 right, the game goes up a level by itself. It says so, with a **Back a step** button. After 3 wrong in the last 5 it offers an easier one, once a visit. A level picked by hand in Settings is kept for that age. When the age goes up, a level the child reached is kept, never lost.
 
-The keyboard is QWERTY for English and QWERTZ with ä, ö, ü and ß for German. A letter the word needs that is not on it, like é or an apostrophe, joins the last row. A word with a space gets a space key.
+The keyboard is QWERTY for English and QWERTZ with ä, ö, ü and ß for German. Every key is the same size, in every row, and the letters grow with the keys. A letter the word needs that is not on it, like é or an apostrophe, joins the last row. A word with a space gets a space key.
 
 ## Reading aloud
 
